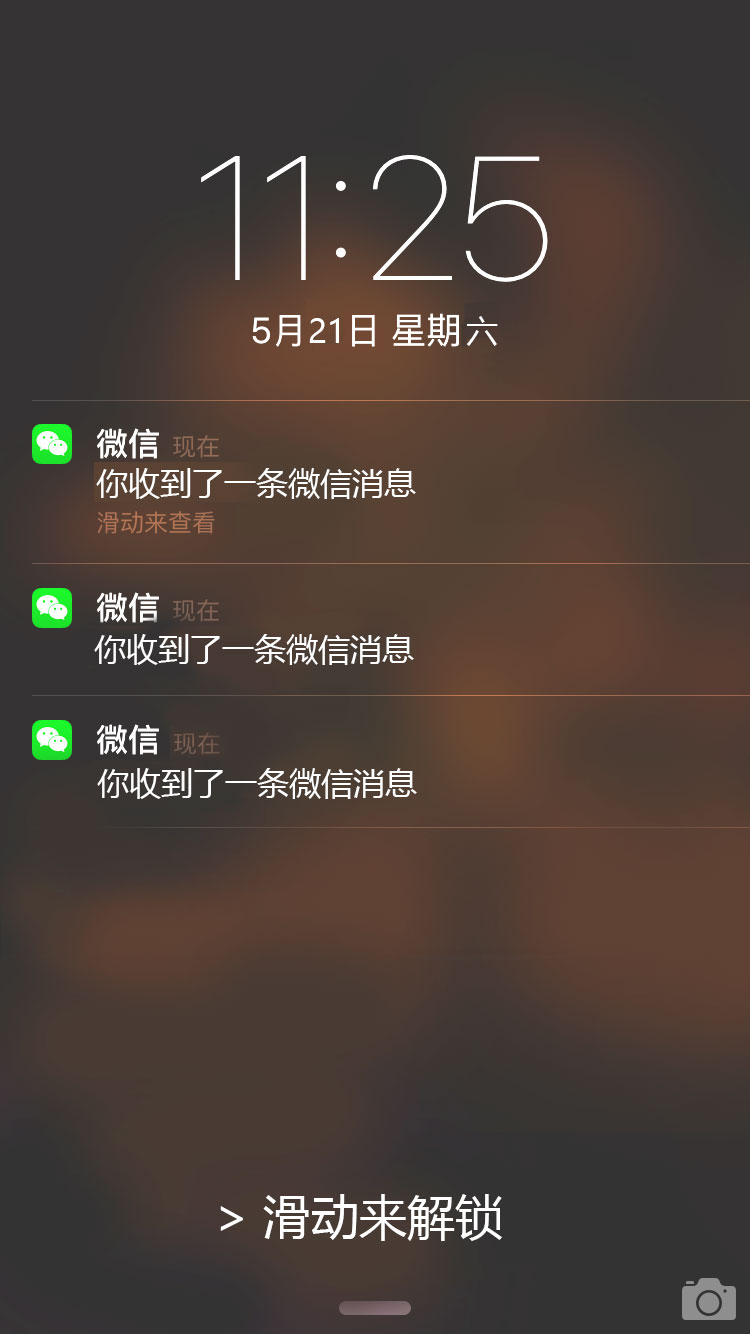
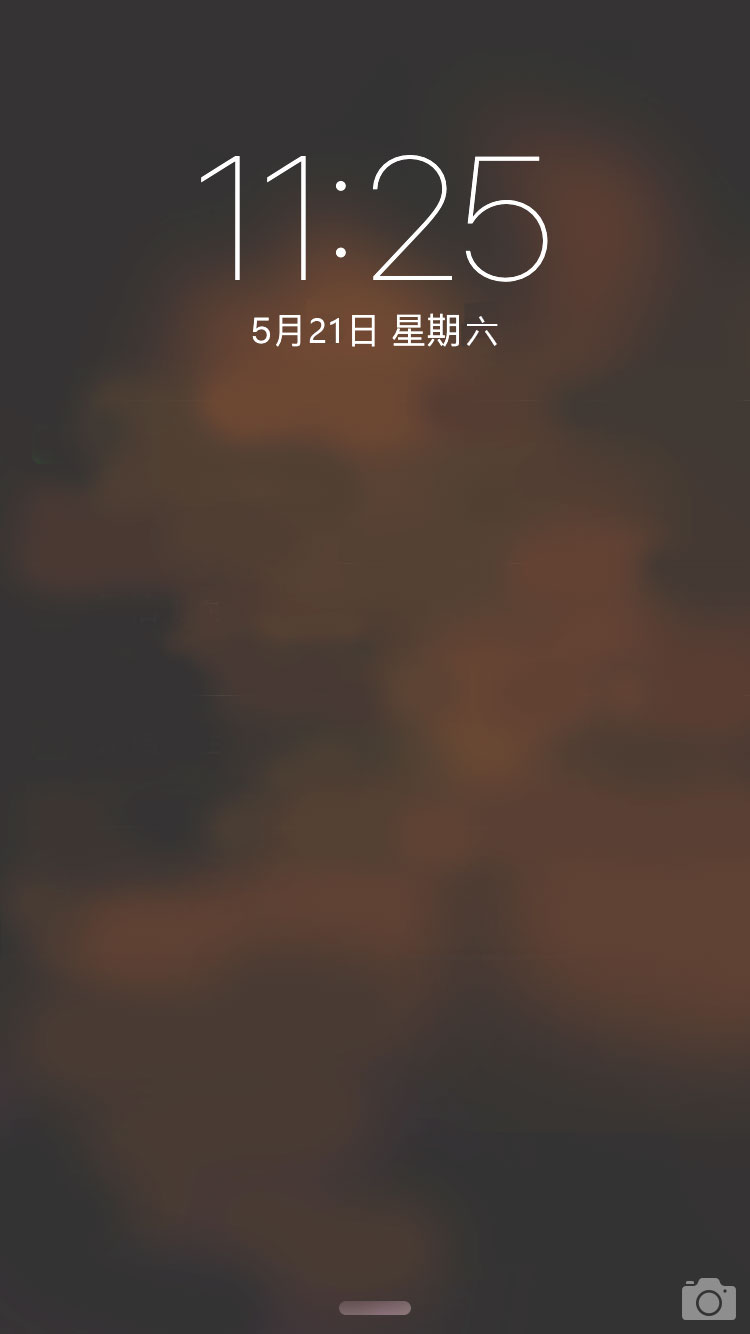
Update

diff --git a/for_family/js/app.js b/for_family/js/app.js
@@ -2,10 +2,12 @@
 var flag1=false;
 var textIndex=0;
 var timer;
+var timerMusic;
+var musicIndex=0;
 
 var mySwiper= new Swiper('.swiper-container',{
   resistance:"100%",
-  initialSlide:3,
+  initialSlide:4,
   onTouchStart:function(swiper){
     if(swiper.activeIndex==2){
       if(!flag1){
@@ -21,20 +23,26 @@ var mySwiper= new Swiper('.swiper-container',{
     return false;
   },
   onTransitionEnd:function(swiper){
+
+    if(swiper.activeIndex==3){
+      $(".wei-con").addClass("active")
+      play();
+      timerMusic=setInterval(function(){
+        play();
+      },500)
+
+    }
+
     if(swiper.activeIndex==2){
       //文字动画
+      text();
       timer=setInterval(function(){
-        var text="工作忙，不回了".slice(0,textIndex)
-        $(".msg-text").text(text)
-        textIndex++;
-        if(textIndex==8){
-          clearInterval(timer)
-        }
+        text();
       },500)
     }
   }
 });
-//mySwiper.lockSwipes()
+mySwiper.lockSwipes()
 
 var loading=$(".loading");
 var i=0;
@@ -90,3 +98,20 @@ $(".coupon-close").click(function(){
 })
 
 
+function play(){
+  var music=$("#sound"+musicIndex)[0];
+  music.play();
+  musicIndex++;
+  if(musicIndex==3){
+    clearInterval(timerMusic);
+  }
+}
+
+function text(){
+  var text="工作忙，不回了".slice(0,textIndex)
+  $(".msg-text").text(text)
+  textIndex++;
+  if(textIndex==8){
+    clearInterval(timer)
+  }
+}

diff --git a/for_family/css/index.scss b/for_family/css/index.scss
@@ -255,21 +255,6 @@ body{
   0%{-webkit-transform: translateX(0%);opacity:1}
   100%{-webkit-transform: translateX(5px);opacity:1}
 }
-.wei-item{
-  background: url("../img/wei.png") no-repeat;
-  background-size: 100% 100%;
-  width: 100%;
-  height:11%;
-  position: absolute;
-  left: 0%;
-  top: 29%;
-}
-.wei-item2{
-  top: 41%;
-}
-.wei-item3{
-  top: 51%;
-}
 .msg{
   background: url("../img/msg.png") no-repeat;
   background-size: 100% 100%;
@@ -284,4 +269,34 @@ body{
   left: 14.2%;
   top: 47.7%;
   font-size: 16px;
+}
+.wei-con{
+  .wei-item{
+    opacity:0;
+    transition: .5s;
+  }
+
+  &.active{
+    .wei-item{
+      opacity:1;
+    }
+  }
+
+  .wei-item{
+    background: url("../img/wei.png") no-repeat;
+    background-size: 100% 100%;
+    width: 100%;
+    height:11%;
+    position: absolute;
+    left: 0%;
+    top: 29%;
+  }
+  .wei-item2{
+    top: 40%;
+    transition: .5s .5s;
+  }
+  .wei-item3{
+    top: 51%;
+    transition: .5s 1s;
+  }
 }

diff --git a/for_family/css/index.css b/for_family/css/index.css
@@ -281,21 +281,6 @@ body {
     -webkit-transform: translateX(5px);
     opacity: 1; } }
 
-.wei-item {
-  background: url("../img/wei.png") no-repeat;
-  background-size: 100% 100%;
-  width: 100%;
-  height: 11%;
-  position: absolute;
-  left: 0%;
-  top: 29%; }
-
-.wei-item2 {
-  top: 41%; }
-
-.wei-item3 {
-  top: 51%; }
-
 .msg {
   background: url("../img/msg.png") no-repeat;
   background-size: 100% 100%;
@@ -310,3 +295,27 @@ body {
   left: 14.2%;
   top: 47.7%;
   font-size: 16px; }
+
+.wei-con .wei-item {
+  opacity: 0;
+  transition: .5s; }
+
+.wei-con.active .wei-item {
+  opacity: 1; }
+
+.wei-con .wei-item {
+  background: url("../img/wei.png") no-repeat;
+  background-size: 100% 100%;
+  width: 100%;
+  height: 11%;
+  position: absolute;
+  left: 0%;
+  top: 29%; }
+
+.wei-con .wei-item2 {
+  top: 40%;
+  transition: .5s .5s; }
+
+.wei-con .wei-item3 {
+  top: 51%;
+  transition: .5s 1s; }

diff --git a/for_family/index.html b/for_family/index.html
@@ -10,6 +10,9 @@
   <link href="css/swiper.min.css" rel="stylesheet" type="text/css"/>
 </head>
 <body>
+<audio src="sound/sound.mp3" id="sound0"></audio>
+<audio src="sound/sound.mp3" id="sound1"></audio>
+<audio src="sound/sound.mp3" id="sound2"></audio>
 <div class="swiper-container">
   <div class="swiper-wrapper">
 
@@ -53,9 +56,11 @@
       <div class="bg2">
         <div class="slide"></div>
         <div class="slide-btn"></div>
-        <div class="wei-item wei-item1"></div>
-        <div class="wei-item wei-item2"></div>
-        <div class="wei-item wei-item3"></div>
+        <div class="wei-con">
+          <div class="wei-item wei-item1"></div>
+          <div class="wei-item wei-item2"></div>
+          <div class="wei-item wei-item3"></div>
+        </div>
       </div>
     </div>
 
